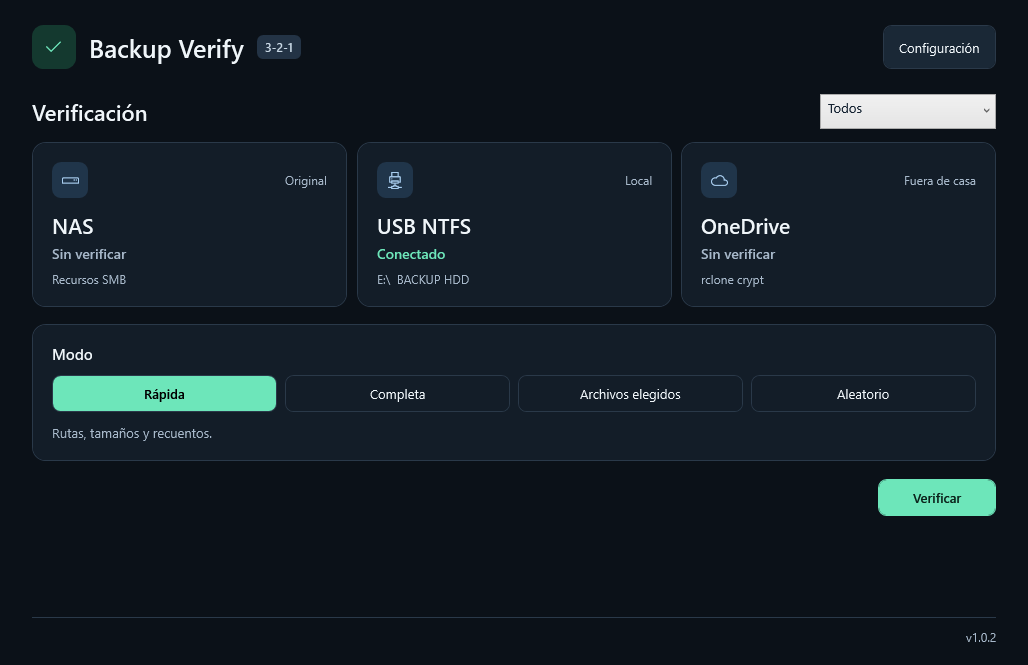
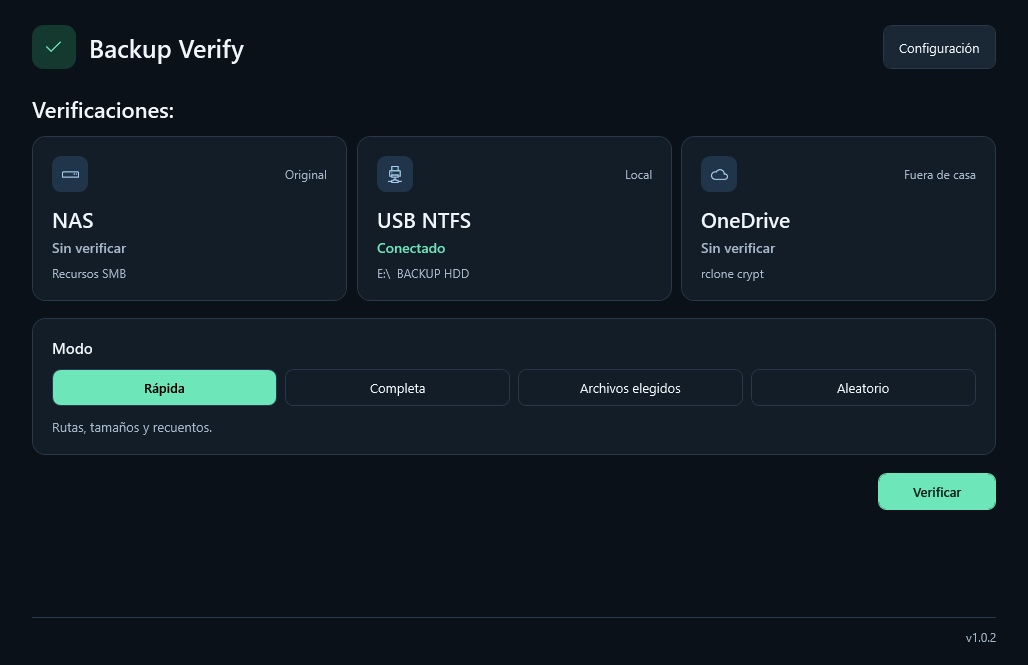
Refresh README for the current Windows screens

diff --git a/README.md b/README.md
@@ -2,7 +2,7 @@
 
 Backup Verify es una app portátil para Windows que comprueba tus copias 3‑2‑1. Toma el NAS como referencia y compara sus archivos con los del disco USB y la copia cifrada en OneDrive.
 
-La app comprueba todos los grupos de carpetas que hayas configurado. Las tres tarjetas te muestran el estado de cada origen. Desde **Ver detalle** puedes ver qué archivos faltan, sobran, son distintos o no se pudieron comprobar.
+En **Verificaciones**, elige un modo y pulsa **Verificar**. La app usa todos los grupos de carpetas configurados. Las tres tarjetas te muestran el estado de cada origen. Desde **Ver detalle** puedes ver qué archivos faltan, sobran, son distintos o no se pudieron comprobar.
 
 ![Pantalla principal con las tarjetas del NAS, USB y OneDrive y los cuatro modos](docs/capturas/01-verificacion.png)
 
@@ -20,7 +20,7 @@ Las pruebas de recuperación guardan los archivos en `checks/`, junto a la app. 
 ## Primer uso
 
 1. Descarga y descomprime el ZIP para Windows desde [GitHub Releases](https://github.com/iasdev/backup-verify-desktop/releases/latest) y abre `BackupVerify.exe`.
-2. Conéctate a las carpetas del NAS desde el Explorador de Windows y conecta el disco de copia a tu PC. En la app, abre **Configuración**, selecciona el disco y pulsa **Guardar**.
+2. Conéctate a las carpetas del NAS desde el Explorador de Windows y conecta el disco de copia a tu PC. En **Configuración**, elige tu disco USB NTFS y pulsa **Guardar**. Si acabas de conectarlo, pulsa **Actualizar**. Usa **Volver**, abajo a la derecha, para regresar a la pantalla principal.
 3. En `config.json`, indica dónde están las carpetas del NAS, el USB y OneDrive, y qué archivos quieres usar en **Archivos elegidos**. Para OneDrive, usa tu configuración existente de rclone. Si editas el archivo con la app abierta, pulsa **Recargar**.
 
 ## Más capturas
